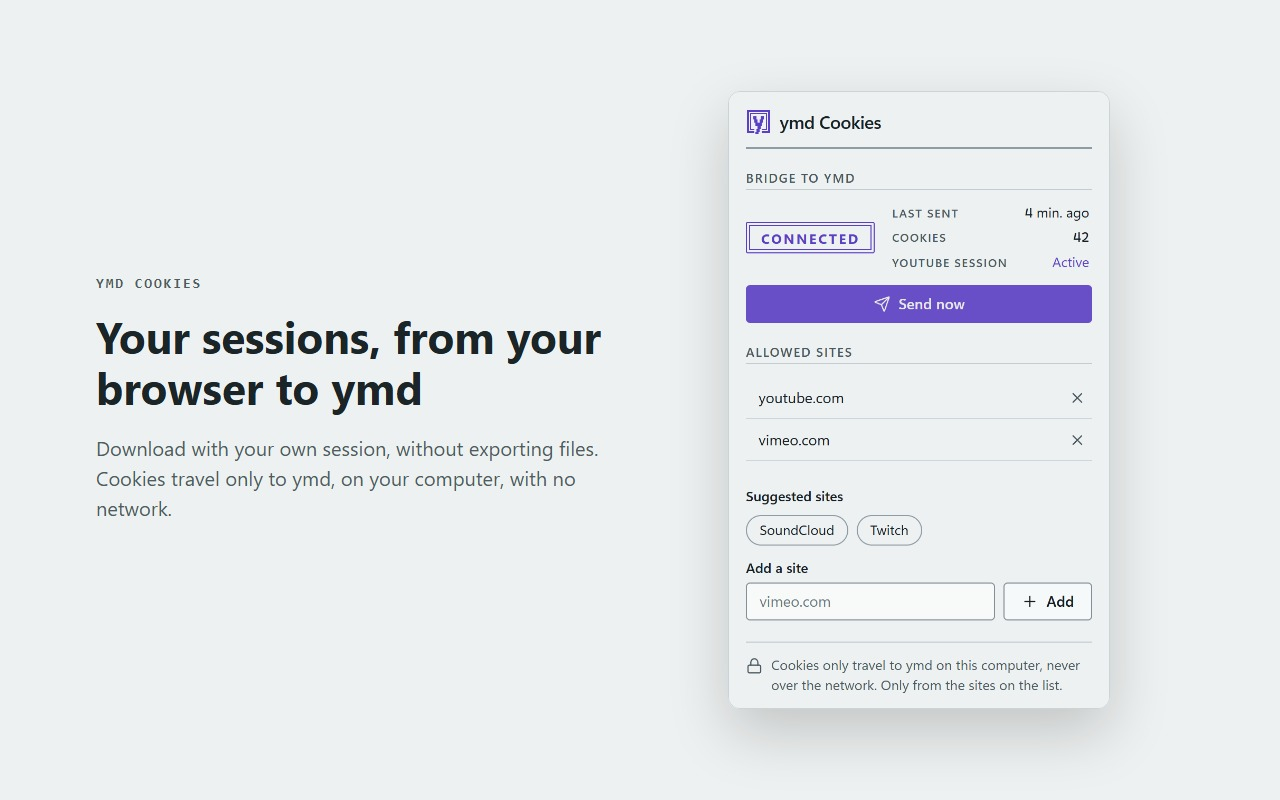
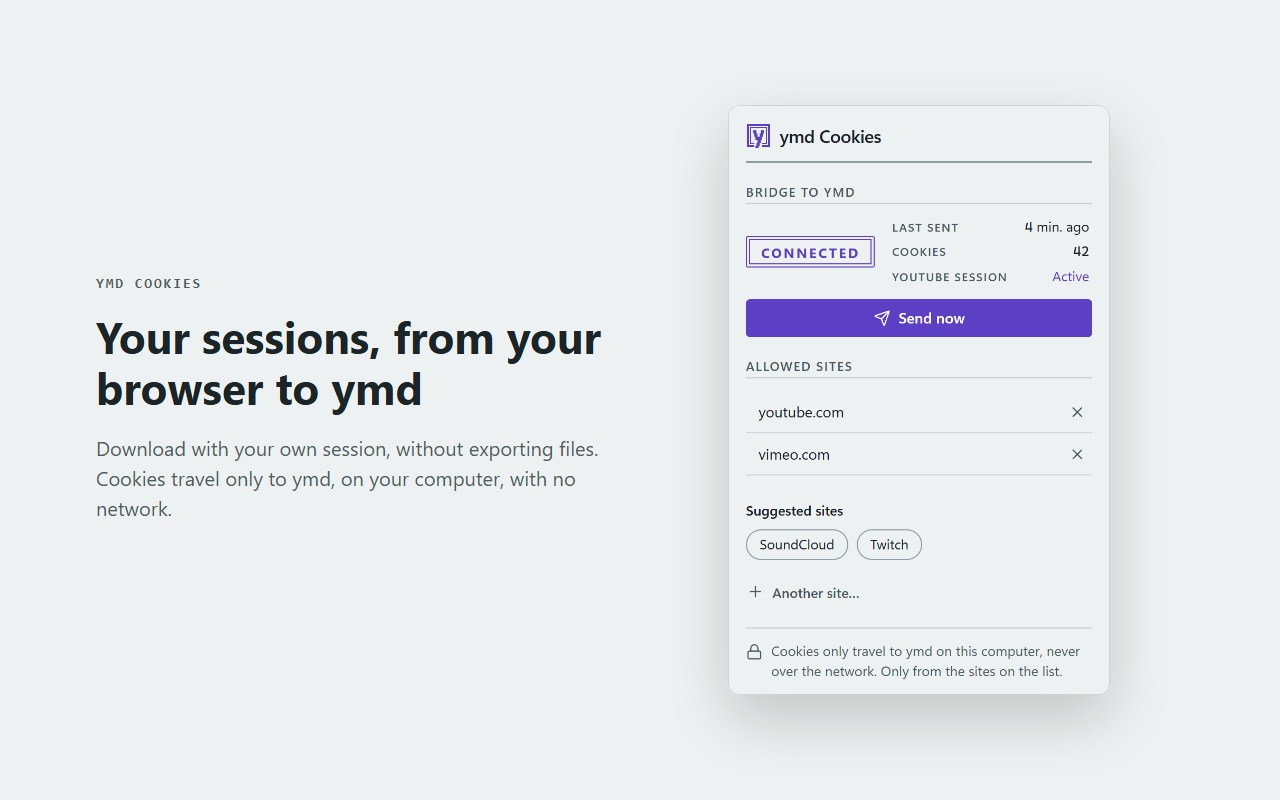
Extension: fold the typed-domain field behind «+ Otro sitio…»
Known sites are added from the suggestions or «Usar mi sesión de …», so the free-text field stays folded behind a quiet link; it unfolds on click (focus in the field), folds back after adding or with Esc on an empty field. The error line moved out of the form so a refused suggestion still explains why. Extension 1.4.2; store screenshots regenerated.

Changed region(s): [[0.5625, 0.25, 0.875, 0.9062], [0.5625, 0.125, 0.6875, 0.25]]

diff --git a/extension/src/__tests__/popup.test.ts b/extension/src/__tests__/popup.test.ts
@@ -166,6 +166,47 @@ describe("popup in Spanish", () => {
     expect($("sites-toggle").hidden).toBe(true);
   });
 
+  it("folds the typed-domain field behind «+ Otro sitio…»", async () => {
+    await mount("es", { grant: true, sites: ["youtube.com"] });
+    const toggle = $("add-toggle");
+    expect($("add-form").hidden).toBe(true);
+    expect(toggle.hidden).toBe(false);
+    expect(toggle.textContent?.trim()).toBe("Otro sitio…");
+    expect(toggle.getAttribute("aria-expanded")).toBe("false");
+
+    toggle.click();
+    expect($("add-form").hidden).toBe(false);
+    expect(toggle.hidden).toBe(true);
+    expect(toggle.getAttribute("aria-expanded")).toBe("true");
+    expect(document.activeElement).toBe($("add-input"));
+
+    // adding folds it back
+    ($("add-input") as HTMLInputElement).value = "vimeo.com";
+    ($("add-form") as HTMLFormElement).requestSubmit();
+    await flush();
+    expect($("add-form").hidden).toBe(true);
+    expect(toggle.hidden).toBe(false);
+  });
+
+  it("Esc on an empty field folds it; a refused suggestion still explains why", async () => {
+    await mount("es", { grant: false, sites: ["youtube.com"] });
+    $("add-toggle").click();
+    $("add-input").dispatchEvent(new KeyboardEvent("keydown", { key: "Escape", bubbles: true }));
+    expect($("add-form").hidden).toBe(true);
+    expect(document.activeElement).toBe($("add-toggle"));
+
+    (document.querySelector("#suggest-list button") as HTMLElement).click();
+    await flush();
+    expect($("add-form").hidden).toBe(true);
+    expect($("add-error").hidden).toBe(false);
+    expect(text("add-error")).toMatch(/vimeo.com/);
+  });
+
+  it("reads «Another site…» in English", async () => {
+    await mount("en", { sites: ["youtube.com"] });
+    expect($("add-toggle").textContent?.trim()).toBe("Another site…");
+  });
+
   it("a site just added is shown even past the fifth row", async () => {
     const sites = ["a.com", "b.com", "c.com", "d.com", "e.com", "f.com"];
     await mount("es", { grant: true, sites });

diff --git a/extension/popup.html b/extension/popup.html
@@ -170,7 +170,35 @@
           <div id="suggest-list" class="chips"></div>
         </div>
 
-        <form id="add-form" class="add" novalidate>
+        <!-- Typing a domain is the rare path (suggestions and «Esta página» cover the known
+             sites), so the field stays folded behind a quiet link. -->
+        <button
+          id="add-toggle"
+          class="button ghost add-toggle"
+          type="button"
+          aria-expanded="false"
+          aria-controls="add-form"
+        >
+          <svg
+            class="icon"
+            xmlns="http://www.w3.org/2000/svg"
+            viewBox="0 0 24 24"
+            width="16"
+            height="16"
+            fill="none"
+            stroke="currentColor"
+            stroke-width="1.75"
+            stroke-linecap="round"
+            stroke-linejoin="round"
+            aria-hidden="true"
+          >
+            <path d="M5 12h14" />
+            <path d="M12 5v14" />
+          </svg>
+          <span data-i18n="addOther"></span>
+        </button>
+
+        <form id="add-form" class="add" novalidate hidden>
           <label class="field-label" for="add-input" data-i18n="addLabel"></label>
           <div class="add-row">
             <input
@@ -203,8 +231,9 @@
               <span data-i18n="addButton"></span>
             </button>
           </div>
-          <p id="add-error" class="field-error" role="alert" hidden></p>
         </form>
+        <!-- outside the form: a refused suggestion reports here too, with the field folded -->
+        <p id="add-error" class="field-error" role="alert" hidden></p>
       </section>
 
       <footer class="privacy">

diff --git a/extension/src/lib/popup-view.ts b/extension/src/lib/popup-view.ts
@@ -267,6 +267,23 @@ export async function mountPopup(doc: Document, deps: PopupDeps) {
   send.addEventListener("click", () => void sendNow());
 
   const form = $<HTMLFormElement>("add-form");
+  const addToggle = $<HTMLButtonElement>("add-toggle");
+  /** «+ Otro sitio…» unfolds the field; adding a site folds it back. */
+  function setAddOpen(open: boolean): void {
+    form.hidden = !open;
+    addToggle.hidden = open;
+    addToggle.setAttribute("aria-expanded", String(open));
+    if (open) $<HTMLInputElement>("add-input").focus();
+  }
+  addToggle.addEventListener("click", () => setAddOpen(true));
+  $<HTMLInputElement>("add-input").addEventListener("keydown", (event) => {
+    if (event.key === "Escape" && !(event.target as HTMLInputElement).value) {
+      event.preventDefault();
+      showAddError(null);
+      setAddOpen(false);
+      addToggle.focus();
+    }
+  });
   form.addEventListener("submit", (event) => {
     event.preventDefault();
     const input = $<HTMLInputElement>("add-input");
@@ -278,6 +295,7 @@ export async function mountPopup(doc: Document, deps: PopupDeps) {
         input.value = "";
         showAddError(null);
         renderSites();
+        setAddOpen(false);
       } else if (res.reason === "invalid") {
         showAddError(t("addInvalid"));
       } else {

diff --git a/extension/src/popup.css b/extension/src/popup.css
@@ -419,3 +419,19 @@ body {
   height: 1.75rem;
   font-size: var(--text-sm);
 }
+
+/* «+ Otro sitio…»: a quiet link that unfolds the typed-domain field */
+.add-toggle {
+  align-self: flex-start;
+  min-height: 0;
+  height: 1.75rem;
+  margin-top: var(--space-1);
+  /* the + lines up with the chips above */
+  margin-inline-start: calc(-1 * var(--space-2));
+  padding: 0 var(--space-2);
+  color: var(--text-muted);
+  font-size: var(--text-sm);
+}
+.add-toggle:hover {
+  color: var(--text);
+}

diff --git a/extension/src/__tests__/manifest.test.ts b/extension/src/__tests__/manifest.test.ts
@@ -44,7 +44,7 @@ describe("manifest", () => {
     expect(manifest).toMatchObject({
       manifest_version: 3,
       name: "ymd Cookies",
-      version: "1.4.1",
+      version: "1.4.2",
       default_locale: "es",
       permissions: ["cookies", "nativeMessaging", "storage", "alarms", "contextMenus", "activeTab"],
       host_permissions: ["*://*.youtube.com/*"],

diff --git a/website/src/content/docs/cookies/extension.md b/website/src/content/docs/cookies/extension.md
@@ -64,7 +64,7 @@ Fija «ymd Cookies» en la barra del navegador y ábrela:
 - **Sesión de YouTube** dice si la copia que recibió ymd tiene tu sesión: **Activa** o **Cerrada**. Se sabe por el nombre de las cookies, sin mirar su contenido.
 - **Enviar ahora** fuerza un envío.
 - **Esta página**: aparece solo si estás en un sitio que ymd conoce (Vimeo, SoundCloud, Twitch…) y aún no está en la lista; **Usar mi sesión de …** lo agrega con un clic. En YouTube, si ya está agregado, o en un sitio desconocido, no se muestra.
-- **Sitios permitidos**: en la extensión que trae ymd, empieza con `youtube.com`, cuyo permiso viene en el manifiesto. La versión de la Chrome Web Store empieza vacía y su página de bienvenida ofrece **Usar YouTube**. **Sitios sugeridos** agrega YouTube, Vimeo, SoundCloud o Twitch con un clic, y **Agregar un sitio** acepta cualquier otro dominio. Cada sitio, con sus subdominios, pide el permiso del navegador en ese momento, y quitarlo devuelve el permiso. Si un sitio de la lista perdió su permiso (por ejemplo, porque lo retiraste en el navegador), muestra **Permitir**. Con más de cinco sitios, la lista se pliega: **Mostrar todos (N)** muestra el resto y **Mostrar menos** la vuelve a plegar. Un sitio recién agregado siempre queda a la vista. La sesión de YouTube vive en las cookies de `youtube.com`, así que agregar YouTube no da acceso a tu cuenta de Google.
+- **Sitios permitidos**: en la extensión que trae ymd, empieza con `youtube.com`, cuyo permiso viene en el manifiesto. La versión de la Chrome Web Store empieza vacía y su página de bienvenida ofrece **Usar YouTube**. **Sitios sugeridos** agrega YouTube, Vimeo, SoundCloud o Twitch con un clic, y Para cualquier otro dominio, **Otro sitio…** abre el campo **Agregar un sitio**; se vuelve a plegar al agregarlo o con Esc. Cada sitio, con sus subdominios, pide el permiso del navegador en ese momento, y quitarlo devuelve el permiso. Si un sitio de la lista perdió su permiso (por ejemplo, porque lo retiraste en el navegador), muestra **Permitir**. Con más de cinco sitios, la lista se pliega: **Mostrar todos (N)** muestra el resto y **Mostrar menos** la vuelve a plegar. Un sitio recién agregado siempre queda a la vista. La sesión de YouTube vive en las cookies de `youtube.com`, así que agregar YouTube no da acceso a tu cuenta de Google.
 
 El icono de la extensión muestra **!** en ámbar cuando tu sesión de YouTube está cerrada, y en rojo cuando no puede hablar con ymd; al pasar el ratón explica cuál. En ymd, **Ajustes → Cuentas** muestra la misma **Sesión de YouTube** y te indica cómo recuperarla.
 

diff --git a/website/src/content/docs/en/cookies/extension.md b/website/src/content/docs/en/cookies/extension.md
@@ -64,7 +64,7 @@ Pin "ymd Cookies" to the browser toolbar and open it:
 - **YouTube session** tells whether the copy ymd got holds your session: **Active** or **Signed out**. It goes by the cookies' names, without looking at their contents.
 - **Send now** forces a send.
 - **This page**: shows up only on a site ymd knows (Vimeo, SoundCloud, Twitch…) that isn't on the list yet; **Use my … session in ymd** adds it in one click. On YouTube once it's added, or on an unknown site, it isn't shown.
-- **Allowed sites**: in the extension that ships with ymd, it starts with `youtube.com`, whose permission comes in the manifest. The Chrome Web Store version starts empty and its welcome page offers **Use YouTube**. **Suggested sites** adds YouTube, Vimeo, SoundCloud or Twitch in one click, and **Add a site** takes any other domain. Each site, with its subdomains, asks the browser for permission at that moment, and removing it gives the permission back. A site on the list that lost its permission (for example, because you withdrew it in the browser) shows **Allow**. With more than five sites, the list folds: **Show all (N)** reveals the rest and **Show less** folds it again. A site you just added always stays in view. Your YouTube session lives in `youtube.com` cookies, so adding YouTube gives no access to your Google account.
+- **Allowed sites**: in the extension that ships with ymd, it starts with `youtube.com`, whose permission comes in the manifest. The Chrome Web Store version starts empty and its welcome page offers **Use YouTube**. **Suggested sites** adds YouTube, Vimeo, SoundCloud or Twitch in one click, and For any other domain, **Another site…** opens the **Add a site** field; it folds again once the site is added, or with Esc. Each site, with its subdomains, asks the browser for permission at that moment, and removing it gives the permission back. A site on the list that lost its permission (for example, because you withdrew it in the browser) shows **Allow**. With more than five sites, the list folds: **Show all (N)** reveals the rest and **Show less** folds it again. A site you just added always stays in view. Your YouTube session lives in `youtube.com` cookies, so adding YouTube gives no access to your Google account.
 
 The extension icon shows an amber **!** when you're signed out of YouTube, and a red one when it can't reach ymd; hovering explains which. In ymd, **Settings → Accounts** shows the same **YouTube session** and tells you how to get it back.
 

diff --git a/CHANGELOG.md b/CHANGELOG.md
@@ -2,6 +2,12 @@
 
 Todas las versiones notables de ymd. Formato basado en [Keep a Changelog](https://keepachangelog.com/es-ES/1.1.0/); las versiones siguen [SemVer](https://semver.org/lang/es/).
 
+## [Unreleased]
+
+### Cambios
+
+- **Ventana de la extensión más limpia.** El campo para escribir un sitio queda plegado tras **+ Otro sitio…**: los sitios conocidos se agregan con **Sitios sugeridos** o **Usar mi sesión de …**. Extensión 1.4.2.
+
 ## [0.6.0] - 2026-10-11
 
 ### Novedades
@@ -174,6 +180,7 @@ Primera versión pública: ymd pasa de prototipo a una app completa para descarg
 - **Brave, Chrome y Edge en Windows:** cifran sus cookies (app-bound), así que yt-dlp no puede leerlas directamente. Usa la extensión, Firefox o `cookies.txt`.
 - **Licencias:** yt-dlp y ffmpeg (GPL) se descargan al usarse y no van incluidos en el instalador.
 
+[Unreleased]: https://github.com/galexbh/ymd/compare/v0.6.0...HEAD
 [0.6.0]: https://github.com/galexbh/ymd/releases/tag/v0.6.0
 [0.5.1]: https://github.com/galexbh/ymd/releases/tag/v0.5.1
 [0.5.0]: https://github.com/galexbh/ymd/releases/tag/v0.5.0

diff --git a/extension/README.md b/extension/README.md
@@ -58,7 +58,7 @@ diálogo, así que YouTube funciona sin ningún paso. `pnpm ext:zip:store` quita
 `key` (`src/lib/store-manifest.ts`): la versión de la tienda empieza vacía. Al instalarse, las dos
 abren `welcome.html`, que guía para fijar la extensión en la barra y elegir sitios.
 
-Agregar un sitio (escribiéndolo o desde «Sitios sugeridos») pide el permiso del navegador para ese
+Agregar un sitio (desde «Sitios sugeridos», o escribiéndolo tras «+ Otro sitio…») pide el permiso del navegador para ese
 dominio, y quitarlo lo devuelve (salvo YouTube en el paquete descomprimido, cuyo permiso es del
 manifiesto). Un sitio que perdió el permiso muestra «Permitir».
 
